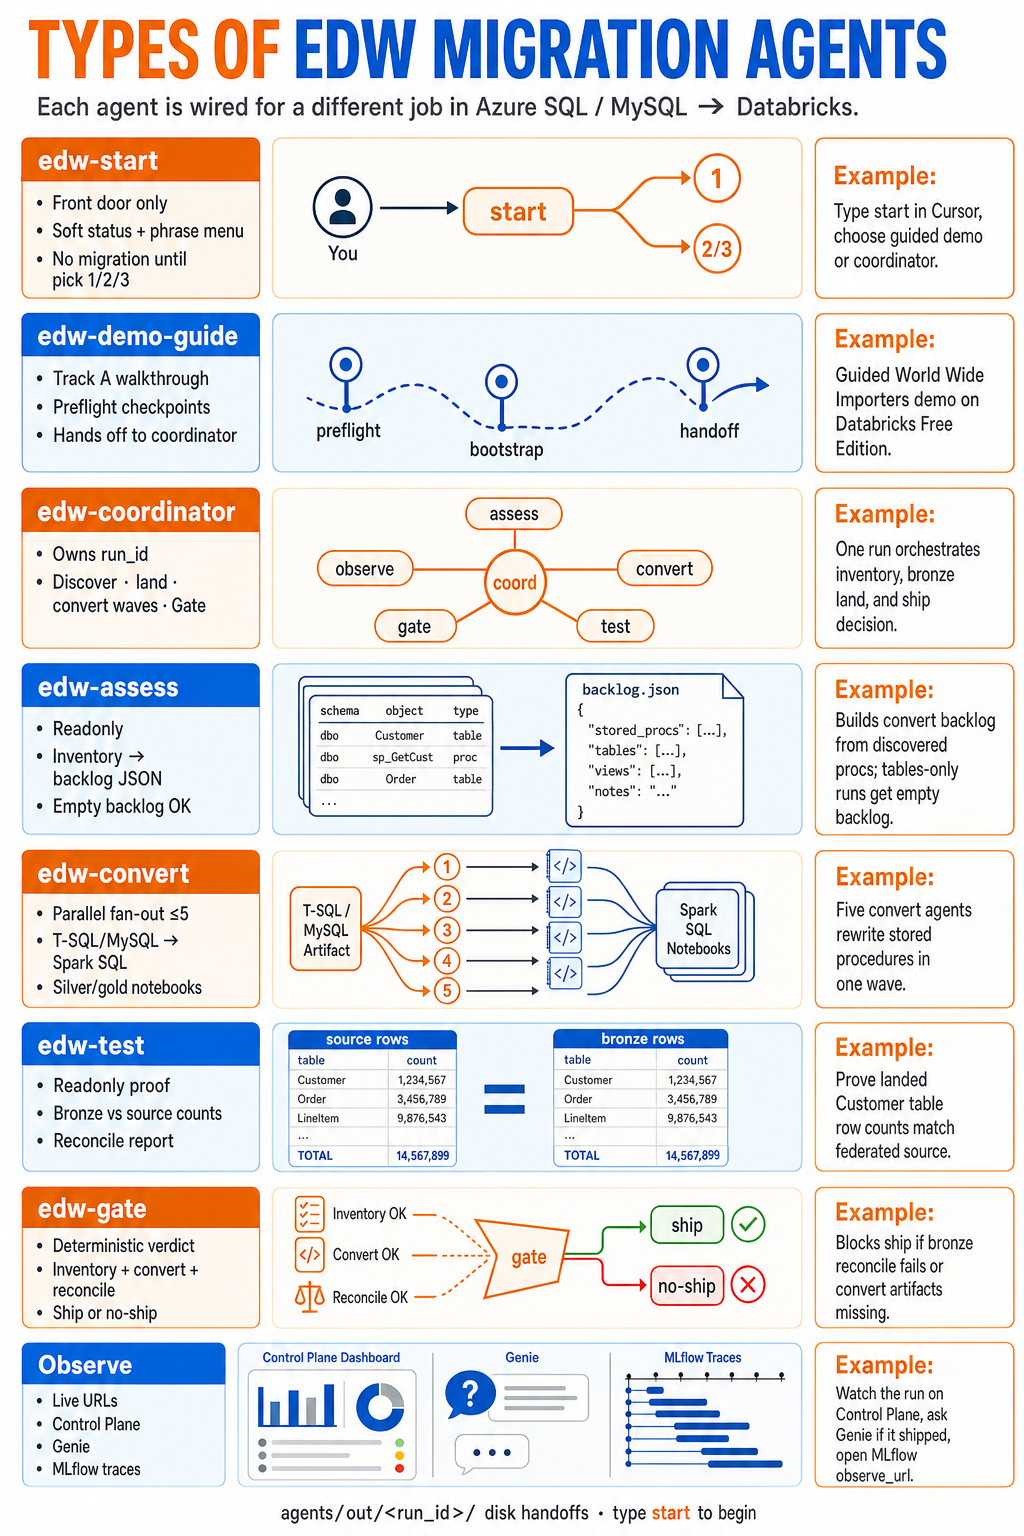
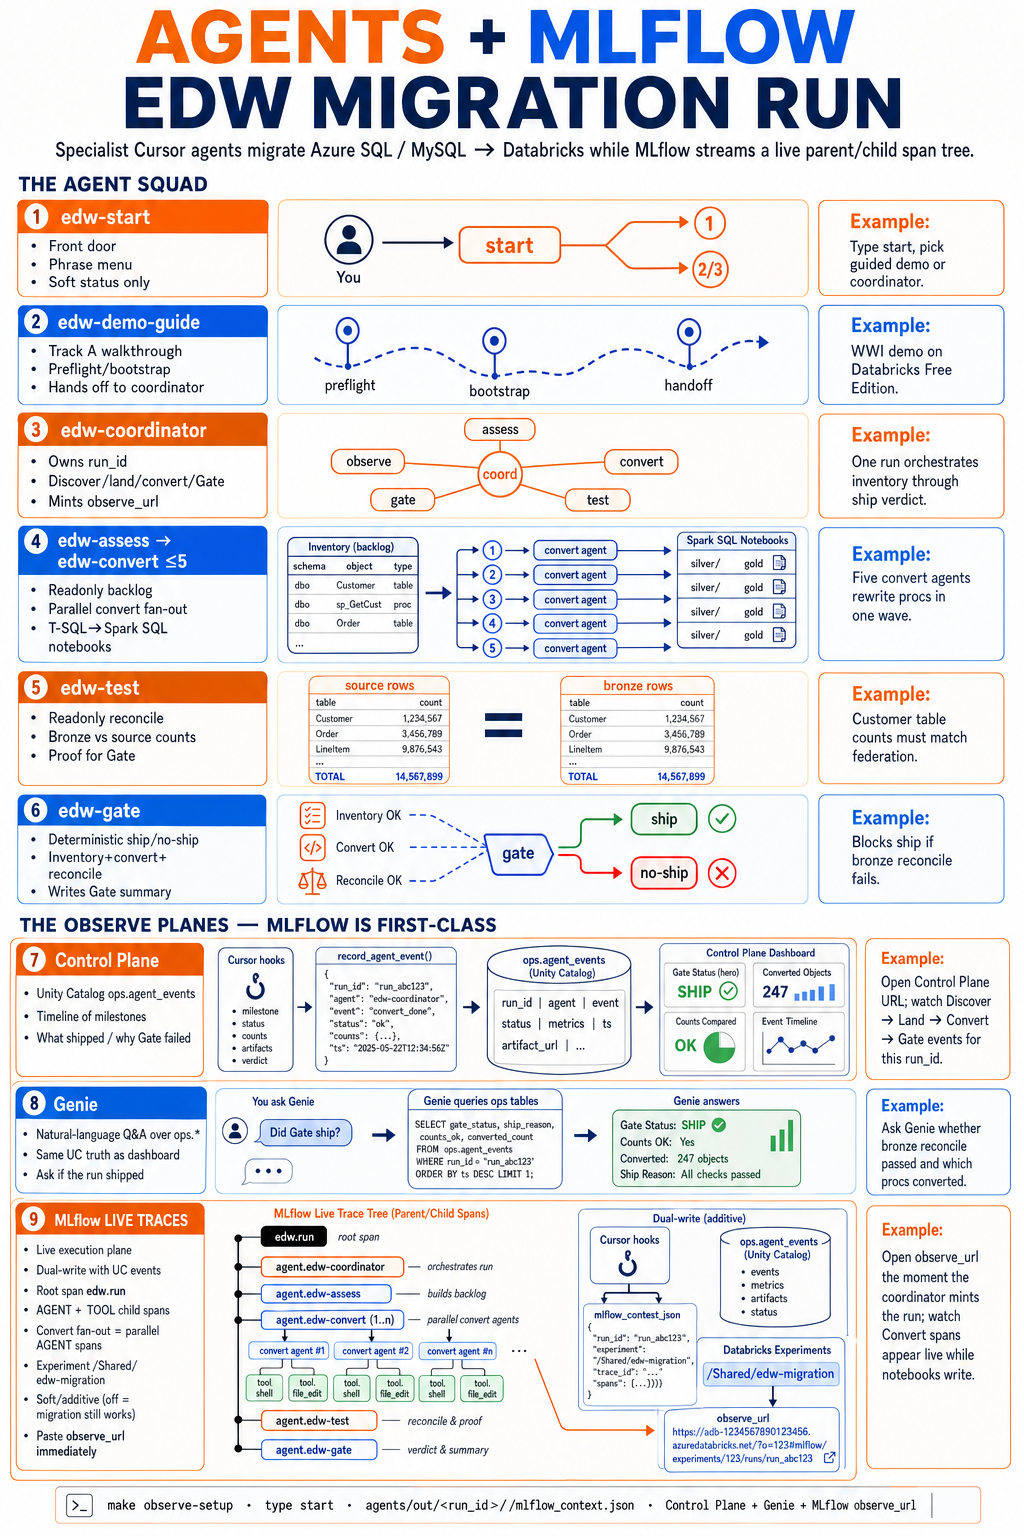
Elevate MLflow in the README agent comparison poster.
Redo the LinkedIn-style hero so agents share the stage with first-class
observe planes — Control Plane, Genie, and a detailed MLflow live span
tree (root edw.run, parallel convert AGENT spans, tool children).

diff --git a/docs/img/README.md b/docs/img/README.md
@@ -26,7 +26,7 @@ All Mermaid diagrams in this repo share one palette (navy / teal / Azure blue / 
 | File | Description |
 |---|---|
 | [architecture.mmd](architecture.mmd) | Source → Federation → medallion → agents (convert fan-out) |
-| [agent_squad_roles.png](agent_squad_roles.png) | README hero — LinkedIn-style “TYPES OF EDW MIGRATION AGENTS” comparison poster (unique schematic per agent) |
+| [agent_squad_roles.png](agent_squad_roles.png) | README hero — LinkedIn-style AGENTS + MLFLOW poster (agent squad + Control Plane / Genie / MLflow span tree) |
 | [agent_delegation.mmd](agent_delegation.mmd) | Guide / Coordinator with parallel Convert wave |
 | [enterprise_sod.mmd](enterprise_sod.mmd) | Segregation of duties swimlanes |
 | [demo_vs_enterprise.mmd](demo_vs_enterprise.mmd) | Demo anti-pattern vs enterprise controls |

diff --git a/docs/what-you-get.md b/docs/what-you-get.md
@@ -101,7 +101,7 @@ flowchart TB
   class Assess,Test,Gate readonly
 ```
 
-Also: [`img/agent_squad_roles.png`](img/agent_squad_roles.png) (README comparison poster: types of EDW migration agents) · [`img/agent_delegation.mmd`](img/agent_delegation.mmd) · [`img/architecture.mmd`](img/architecture.mmd)
+Also: [`img/agent_squad_roles.png`](img/agent_squad_roles.png) (README comparison poster: agents + MLflow observe planes) · [`img/agent_delegation.mmd`](img/agent_delegation.mmd) · [`img/architecture.mmd`](img/architecture.mmd)
 
 ---
 

diff --git a/README.md b/README.md
@@ -12,7 +12,7 @@ You do not need to be a migration expert. You do not hand-write medallion SQL. O
 
 Type **`start`** — these agents do the rest:
 
-![TYPES OF EDW MIGRATION AGENTS — unique schematic per agent](docs/img/agent_squad_roles.png)
+![AGENTS + MLFLOW — EDW migration run with live observe planes](docs/img/agent_squad_roles.png)
 
 Pipeline detail (convert waves, merge, retries): [agent_delegation.png](docs/img/agent_delegation.png) · [What you get](docs/what-you-get.md) · [MLflow](docs/mlflow.md)
 
